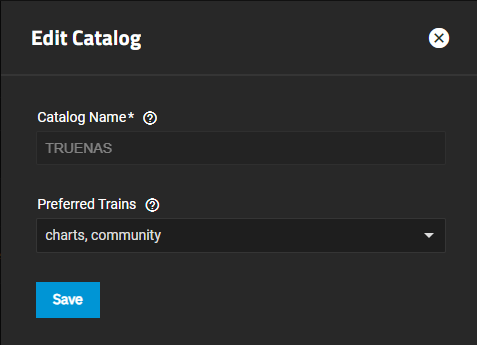
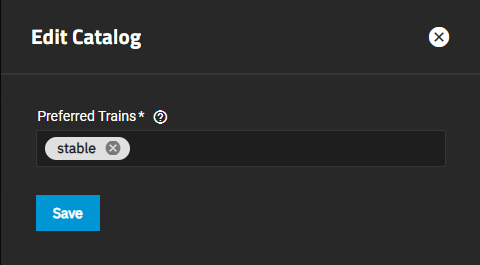
PD-1356 Update Apps UI Ref Content
This commit updates the UI ref content for the application common screens, removes content from the Apps tutorials _index.md file and creates a new snippet, then adds that snippet to both the UI ref and tutorial index files. It updates some of the UI images.  More UI changes are expected in nightly BETA.1 builds so screenshot commits are planned for this PR.

diff --git a/content/SCALE/SCALETutorials/Apps/_index.md b/content/SCALE/SCALETutorials/Apps/_index.md
@@ -170,44 +170,7 @@ From the application information screen, click **Install** to open the installat
 After installing an application, the **Installed** applications screen shows the application in the **Deploying** state.
 It changes to **Running** when the application is ready to use.
 
-The installation wizard configuration sections vary by application, with some including more configuration areas than others.
-Click **Install** to review settings ahead of time to check for required settings.
-Click **Discover** on the breadcrumb at the top of the installation wizard to exiting the screen without saving and until you are ready return and configure the app settings.
-
-All applications include these basic setting sections:
-
-* **Application Name** shows the default name for the application.
-
-  If deploying more than one instance of the application, you must change the default name. Also includes the **version** number for the application.
-  Do not change the version number for official apps or those included in a SCALE catalog.
-  When a new version becomes available, the **Installed** application screen banner and application row displays an update alert, and the **Application Info** widget displays an update button> Updating the app changes the version shown on the edit wizard for the application.
-
-* ***Application* Configuration** shows settings that app requires to deploy.
-  This section can be named anything. For example, the MinIO app uses  **MinIO Configuration**.
-
-  Typical settings include user credentials, environment variables, additional argument settings, name of the node, or even sizing parameters.
-
-  If not using the default user and group provided, add the new user (and group) to manage the application before using the installation wizard.
-
-* **Network Configuration** shows network settings the app needs to communicate with SCALE and the Internet.
-  Settings include the default port assignment, host name, IP addresses, and other network settings.
-
-  If changing the port number to something other than the default setting, refer to [Default Ports](https://www.truenas.com/docs/references/defaultports/) for a list of used and available port numbers.
-
-  Some network configuration settings include the option to add a certificate. Create the certificate authority and certificate before using the installation wizard if using a certificate is required for the application.
-
-* **Storage Configuration** shows options to configure storage for the application.
-  Storage options include using the default ixVolume setting that adds a storage volume under the **ix-applications** dataset, host path where you select existing dataset(s) to use, or in some cases the SMB share option where you configure a share for the application to use.
-  The **Add** button allows you to configure additional storage volumes for the application to use in addition to the main storage volume (dataset).
-
-  If the application requires specific datasets, configure these before using the installation wizard.
-
-  {{< include file="/static/includes/FileExplorerFolderIcons.md" >}}
-
-* **Resources Configuration** shows CPU and memory settings for the container pod.
-   This section can also be named **Resource Limits**. In most cases, you can accept the default settings, or you can change these settings to limit the system resources available to the application.
-
-After installing an app, you can modify most settings by selecting the app on the **Installed** applications screen and then clicking the **Edit** button on the **Application Info** widget for that app.
+{{< include file="/static/includes/AppsInstallWizardSettings.md" >}}
 
 Refer to individual tutorials in the Community or Enterprise sections of the Documentation Hub for more details on application settings.
 Installation and editing wizards include tooltips to help users configure application settings.

diff --git a/static/includes/AppsInstallWizardSettings.md b/static/includes/AppsInstallWizardSettings.md
@@ -1,0 +1,40 @@
+&NewLine;
+
+The installation wizard configuration sections vary by application, with some including more configuration areas than others.
+Click **Install** to review settings ahead of time to check for required settings.
+Click **Discover** on the breadcrumb at the top of the installation wizard to exiting the screen without saving and until you are ready return and configure the app settings.
+
+All applications include these basic setting sections:
+
+* **Application Name** shows the default name for the application.
+
+  If deploying more than one instance of the application, you must change the default name. Also includes the **version** number for the application.
+  Do not change the version number for official apps or those included in a SCALE catalog.
+  When a new version becomes available, the **Installed** application screen banner and application row displays an update alert, and the **Application Info** widget displays an update button> Updating the app changes the version shown on the edit wizard for the application.
+
+* ***Application* Configuration** shows settings that app requires to deploy.
+  This section can be named anything. For example, the MinIO app uses  **MinIO Configuration**.
+
+  Typical settings include user credentials, environment variables, additional argument settings, name of the node, or even sizing parameters.
+
+  If not using the default user and group provided, add the new user (and group) to manage the application before using the installation wizard.
+
+* **Network Configuration** shows network settings the app needs to communicate with SCALE and the Internet.
+  Settings include the default port assignment, host name, IP addresses, and other network settings.
+
+  If changing the port number to something other than the default setting, refer to [Default Ports](https://www.truenas.com/docs/references/defaultports/) for a list of used and available port numbers.
+
+  Some network configuration settings include the option to add a certificate. Create the certificate authority and certificate before using the installation wizard if using a certificate is required for the application.
+
+* **Storage Configuration** shows options to configure storage for the application.
+  Storage options include using the default ixVolume setting that adds a storage volume under the **ix-applications** dataset, host path where you select existing dataset(s) to use, or in some cases the SMB share option where you configure a share for the application to use.
+  The **Add** button allows you to configure additional storage volumes for the application to use in addition to the main storage volume (dataset).
+
+  If the application requires specific datasets, configure these before using the installation wizard.
+
+  {{< include file="/static/includes/FileExplorerFolderIcons.md" >}}
+
+* **Resources Configuration** shows CPU and memory settings for the container pod.
+   This section can also be named **Resource Limits**. In most cases, you can accept the default settings, or you can change these settings to limit the system resources available to the application.
+
+After installing an app, you can modify most settings by selecting the app on the **Installed** applications screen and then clicking the **Edit** button on the **Application Info** widget for that app.

diff --git a/content/SCALE/SCALETutorials/Apps/UsingTrains.md b/content/SCALE/SCALETutorials/Apps/UsingTrains.md
@@ -1,0 +1,49 @@
+---
+title: "Managing Catalog Trains"
+description: "Provides basic information on adding or managing application catalogs in TrueNAS SCALE."
+weight: 5
+aliases:
+ - /scale/scaleuireference/apps/usingcatalogs/
+ - /scale/apps/usingcatalogs/
+ - /scale/scaletutorials/apps/usingcatalogs/
+tags:
+- apps
+- customapp
+keywords:
+- nas data storage
+- software storage solutions
+---
+
+TrueNAS SCALE has a pre-built official catalog of available iXsystems-approved applications.
+
+Users can configure add catalog trains if they choose.
+The default train is **stable** which shows the **charts** apps. Other available trains are **enterprise** and **community**.
+
+{{< hint type=note >}}
+TrueNAS uses outbound ports 80/443 to retrieve the TRUENAS catalog.
+{{< /hint >}}
+
+## Managing Catalogs
+Users can manage the catalog trains from the **Settings** option on the **Installed** screen.
+You can also click **Manage Installed Apps** at the top right side of the **Discover** screen to open the **Installed** screen.
+
+{{< trueimage src="/images/SCALE/Apps/AppsDiscoverScreen.png" alt="Applications Discover Screen" id="Applications Discover Screen" >}} new image
+
+Click **Train Settings** on **Settings** menu to open the **Edit Catalog** screen.
+From this screen users can change the catalog trains and show apps in those trains. Changing the train resyncs the catalog of apps.
+
+{{< trueimage src="/images/SCALE/Apps/AppsEditCatalogScreen.png" alt="Apps Edit Catalog Screen" id="Apps Edit Catalog Screen" >}} [new image]
+
+Click **Refresh Catalog** on the **Discover** screen to pull the catalog from the repository and refresh it by applying any updates.
+
+To remove a catalog from the system, remove it from the **Preferred Trains** field on the **Edit Catalog** screen and click **Save**.
+Users cannot delete the default catalog train.
+<!-- commenting out this section until we get confirmation of how to add a third-party catalog.
+## Adding Catalogs 
+{{< include file="/static/includes/ThirdPartyCatalogs.md" >}}
+
+To deploy a third-party application, use the **Custom App** option.
+ -->
+## Adding the Enterprise Train
+
+{{< include file="/static/includes/AddEnterpriseTrain.md" >}}

diff --git a/static/includes/AddMinioEnterpriseTrain.md b/static/includes/AddMinioEnterpriseTrain.md
@@ -1,12 +1,10 @@
 &NewLine;
 
-To add the Enterprise MinIO application to the list of available applications, go to **Apps** and click on **Discover Apps**.
+To add the Enterprise MinIO application to the list of available applications, go to **Apps**, click on **Settings** at the top of the **Installed** application sxcreen and select **Train Settings** to open the **Edit Catalog** screen.
 
-Click on **Manage Catalogs** at the top of the **Discover** screen to open the **Catalog** screen. 
+You can also access this from the **Discover** screen by clicking on **Manage Installed Apps** at the top of the **Discover** screen to open the **Installed** screen. 
 
-Click on the **TRUENAS** catalog to expand it, then click **Edit** to open the **Edit Catalog** screen.
-
-Click in the **Preferred Trains** field, click on **enterprise** to add it to the list of trains, and then click **Save**.
+Click in the **Preferred Trains** field, select on **enterprise** to add it to the list of trains, and then click **Save**.
 
 ![AppsEditCatalogAddEnterpriseTrain](/images/SCALE/Apps/AppsEditCatalogAddEnterpriseTrain.png "Edit Catalog Add Enterprise Train")
 

diff --git a/static/includes/AddEnterpriseTrain.md b/static/includes/AddEnterpriseTrain.md
@@ -1,11 +1,9 @@
 &NewLine;
 
-Go to **Apps** and click on **Discover Apps**.
+Go to **Apps**, click on **Settings** at the top of the **Installed** applications screen and select **Train Settings** to open the **Edit Catalog** screen.
 
-Click on **Manage Catalogs** at the top of the **Discover** screen to open the **Catalog** screen. 
+You can also access this from the **Discover** screen by clicking on **Manage Installed Apps** at the top of the **Discover** screen to open the **Installed** screen. 
 
-Click on the **TRUENAS** catalog to expand it, then click **Edit** to open the **Edit Catalog** screen.
-
-Click in the **Preferred Trains** field, click on **enterprise** to add it to the list of trains, and then click **Save**.
+Click in the **Preferred Trains** field, select **enterprise** to add it to the list of trains, and then click **Save**.
 
 {{< trueimage src="/images/SCALE/Apps/AppsEditCatalogAddEnterpriseTrain.png" alt="Edit Catalog Add Enterprise Train" id="Edit Catalog Add Enterprise Train" >}}
